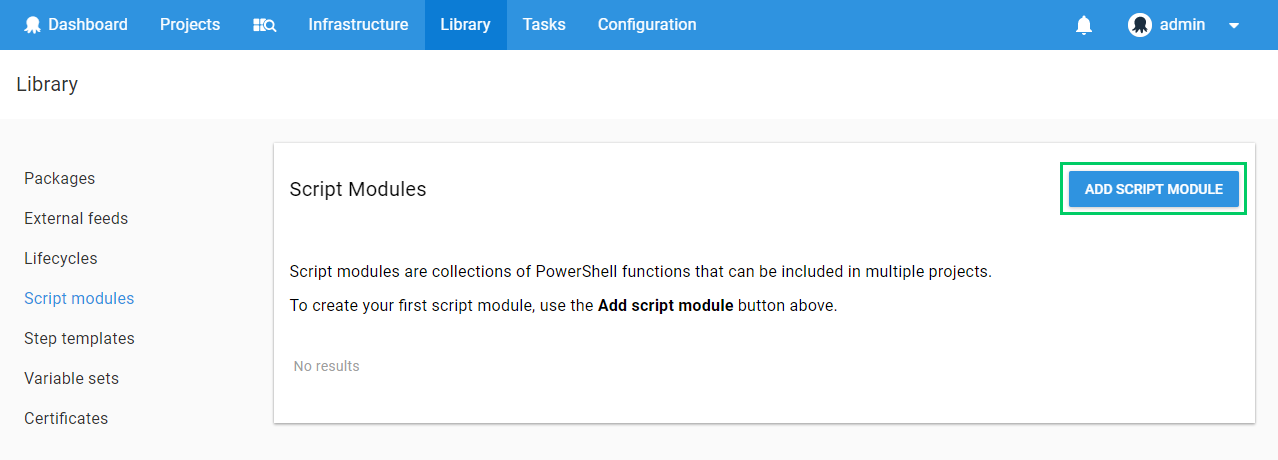
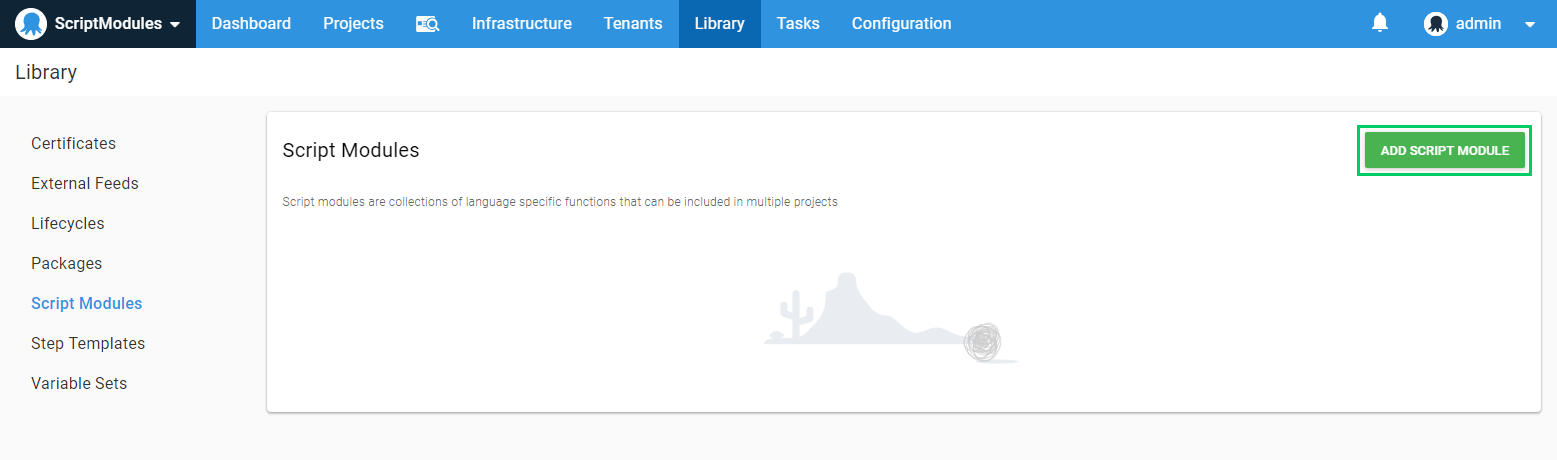
We now support script modules for all languages

diff --git a/docs/deployment-examples/custom-scripts/script-modules.md b/docs/deployment-examples/custom-scripts/script-modules.md
@@ -1,10 +1,10 @@
 ---
 title: Script Modules
-description: Script modules allow users to create PowerShell functions or Cmdlets that could later on be used in deployment processes across multiple projects.
+description: Script modules allow users to create collections of functions that can be used in deployment processes across multiple projects.
 position: 120
 ---
 
-Script modules allow users to create *PowerShell functions* or *Cmdlets* that could later on be used in deployment processes across multiple projects. You can think of them as regular PowerShell Modules that will get loaded at deploy time.
+Script modules allow users to create collections of langauge specific functions that can on be used in deployment processes across multiple projects.
 
 ## Creating a Script Module {#ScriptModules-CreatingaScriptmodule}
 
@@ -12,11 +12,11 @@ Script modules allow users to create *PowerShell functions* or *Cmdlets* that c
 
 ![](script-modules-add.png)
 
-2.  Name your new Script Module and click on **Save**:
+2.  Name your new Script Module:
 
 ![](script-modules-new.png)
 
-3.  By default, your new script module will come with a function called *Say-Hello.* We will modify it a bit with the following code for the sake of showing a better example.
+3.  Your new script module will default to PowerShell and come with a function called *Say-Hello.* Each supported script language has a similar function. In this walkthrough, we will work with PowerShell, and modify the provided sample function a bit with the following code for the sake of showing a better example.
 
 ```powershell
 function Say-Hello($name)
@@ -31,24 +31,9 @@ After inserting the modified function, the Script Module should look like this:
 
 Once this is done, click on **Save**.
 
-### Gotcha
-
-The script modules get loaded once for every step on your deployment process. If you process has 4 steps (i.e Stop IIS, Backup ,Deploy, Start IIS) the entire module will get loaded once at the start of each step. Because of this we encourage users to avoid putting code outside functions on your Script Modules. This way the code will only get executed when the function is properly called from a PowerShell Script step.
-
-In the example Script Module below, the first line which attempts to stop the service "ImportantService" will run for every PowerShell-Script-based step on your deployment . The first time it might succeed (stopping the service), but the subsequent tries will most likely make the overall deployment fail.
-
-```powershell
-Stop-Service -Name ImportantService
- 
-function Say-Hello($name) {
-	Write-output "Hello $name. Welcome to Octopus!"
-}
-```
-
-
 ## Using a Script Module on a Deployment {#ScriptModules-UsingaScriptModuleonaDeployment}
 
-Once you have created a Script Module, you can start using the functions contained on it on your deployment processes.
+Once you have created a Script Module, you can start using the functions contained on it in Script Steps your deployment processes. These steps must use the same language as the Script Module.
 
 1.  Go to your **[Deployment Process](/docs/deployment-examples/index.md)** and click **Include.**
 
@@ -58,14 +43,14 @@ A new window will pop up up, prompting you to select you script module. Select t
 
 ![](script-modules-deployment-include.png)
 
-You should now be able to see your module loaded on your Deployment Process
+You will now be able to see your module loaded on your Deployment Process
 
 ![](script-modules-deployment-included.png)
 
-2.  Add a **[Standalone PowerShell Script step](/docs/deployment-examples/custom-scripts/index.md)** and call the *Say-Hello* function from it.
+2.  Add a **[Script step](/docs/deployment-examples/custom-scripts/index.md)**, ensure you choose PowerShell and call the *Say-Hello* function from it.
 
 ```powershell
-Say-Hello -name George
+Say-Hello -name "George"
 ```
 
 ![](script-modules-deployment-step.png)
@@ -82,7 +67,138 @@ Make sure to select a **Role**, an **Environment** and to put a **Step Name**
 
 ![](script-modules-deployment-release.png)
 
-:::hint
+
+## PowerShell Script Modules{#ScriptModules-PowerShell}
+
+PowerShell script modules get automatically loaded once for every PowerShell script step on your deployment process - the functions and cmdlets will automatically be
+in scope for your script.
+
+Script Module:
+```powershell
+function Say-Hello($name) {
+    Write-output "Hello $name. Welcome to Octopus!"
+}
+```
+
+Script Step:
+```powershell
+Say-Hello -name "George"
+```
+
+### Gotcha
+If you process has 4 steps (i.e Stop IIS, Backup ,Deploy, Start IIS) the entire module will get loaded once at the start of each step. Because of this we encourage users to avoid putting code outside functions on your Script Modules. This way the code will only get executed when the function is properly called from a PowerShell Script step.
+
+In the example Script Module below, the first line which attempts to stop the service "ImportantService" will run for every PowerShell-Script-based step on your deployment . The first time it might succeed (stopping the service), but the subsequent tries will most likely make the overall deployment fail.
+
+```powershell
+# bad example - dont copy
+Stop-Service -Name ImportantService
+ 
+function Say-Hello($name) {
+    Write-output "Hello $name. Welcome to Octopus!"
+}
+```
+
+## Bash Script Modules{#ScriptModules-Bash}
+
+Bash Script Modules are written as a `.sh` file next to your script. Import them
+via `source MyScriptModule.sh`, where `MyScriptModule` is the name of your Script
+Module with invalid characters removed. The help text above the Script Module body
+will show the filename that will be created.
+
+Given a Bash Script Module called `Bash Script Module`:
+```bash
+say_hello() {
+    echo "Hello $1. Welcome to Octopus!"
+}
+```
+
+Call it from your Script Step with:
+```bash
+source BashScriptModule.sh
+say_hello
+```
+
+## C# Script Modules
+
+C# Script Modules are written as a `.csx` file next to your script. Import them
+via `#load "MyScriptModule.csx"`, where `MyScriptModule` is the name of your Script
+Module with invalid characters removed. The help text above the Script Module body
+will show the filename that will be created.
+
+The `#load` statement must be at the top of your script.
+
+Given a C# Script Module called `CSharp Script Module`:
+```csharp
+public void SayHello(string name) {
+    Console.WriteLine("Hello " + name + ". Welcome to Octopus!");
+}
+```
+
+Call it from your Script Step with:
+```csharp
+#load "CSharpScriptModule.csx"
+SayHello("George");
+```
+
+## F# Script Modules
+
+F# Script Modules are written as an `.fsx` file next to your script. Import them
+via `#load "MyScriptModule.fsx"`, where `MyScriptModule` is the name of your Script
+Module with invalid characters removed. The help text above the Script Module body
+will show the filename that will be created.
+
+F# script modules need to declare a module name at the top of the Script Module body with `module MyModule`.
+
+Once the Script Module file is loaded, you can either use the functions from the Script Module by prefixing the functions with the module name, or by "opening" the Script Module with `open MyModule`:
+
+```fsharp
+// call the function in the module directly
+let result = MyModule.add 1 3
+// Or, open the module, and import the functions into scope
+open MyModule
+let result = add 1 3
+```
+
+The `#load` statement must be at the top of your script.
+
+Given an F# Script Module called `FSharp Script Module`:
+```fsharp
+module MyFSharpScriptModule
+let sayhello name =
+    printfn "Hello %s. Welcome to Octopus!" name;
+```
+
+Call it from your Script Step with:
+```fsharp
+#load "FSharpScriptModule.fsx"
+open MyFSharpScriptModule
+sayhello "George";
+```
+
+## Python Script Modules
+
+Python Script Modules are written as a `.py` file next to your script. Import them
+via `import MyScriptModule`, where `MyScriptModule` is the name of your Script
+Module with invalid characters removed. The help text above the Script Module body
+will show the filename that will be created.
+
+Once imported, functions from the Script Module will be available prefixed with the Script Module name.
+
+Given a Python Script Module called `Python Script Module`:
+```python
+def sayhello(name):
+    print("Hello {name}. Welcome to Octopus!")
+```
+
+Call it from your Script Step with:
+```python
+import PythonScriptModule
+PythonScriptModule.sayhello("George")
+```
+
+## Permissions
+
 To be able to access and use the script modules feature you will require the following permissions:
 
 To see the `Script modules` menu requires the `VariableView` permission.
@@ -92,4 +208,3 @@ To create a new `Script module` requires the `LibraryVariableSetCreate` permissi
 To view an existing `Script module` requires the `LibraryVariableSetView`, `VariableView` and `VariableViewUnscoped` permissions.
 
 To edit an existing `Script module` requires the `LibraryVariableSetEdit` permission.
-:::
